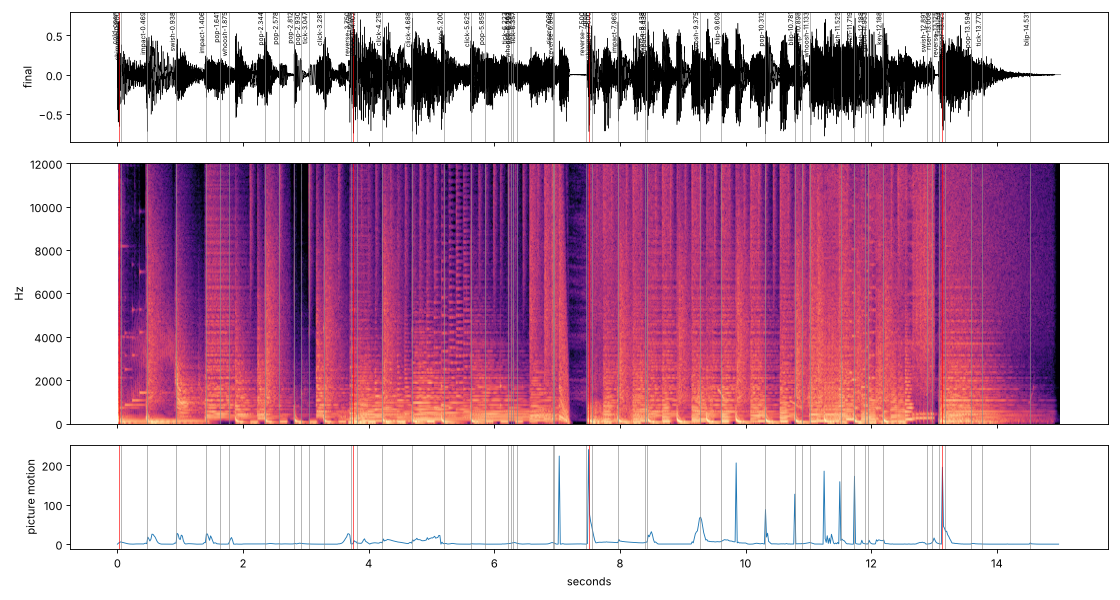
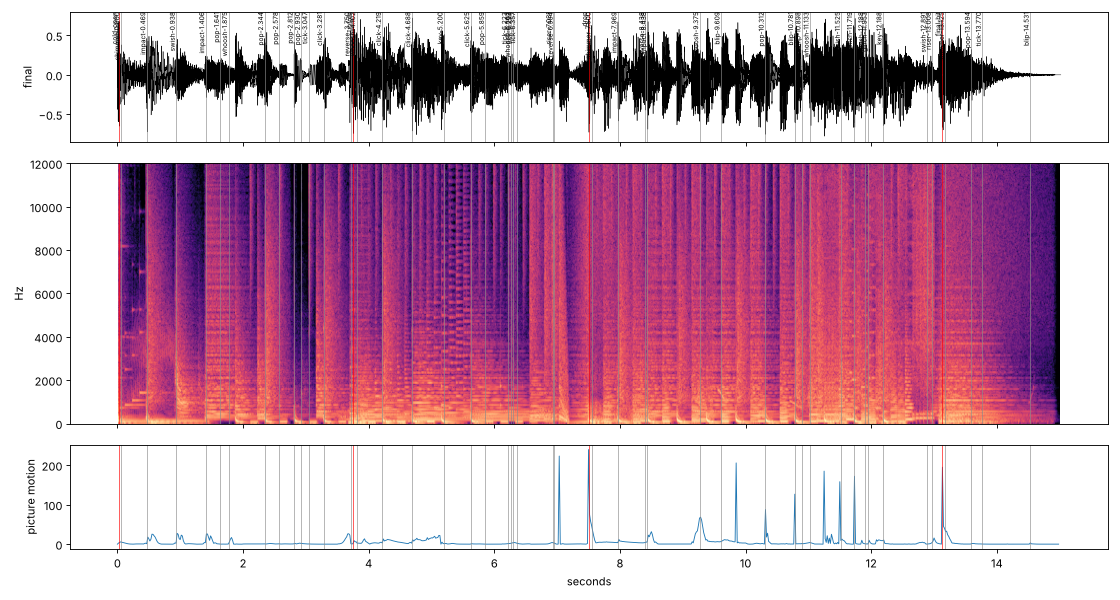
Sound trial round 4: fill the gap before the drop
The trial's music bed was rendered with `synth.py --mute sfx`, which also
mutes the swells the synth lets through the score's dead stops, so the
0.25 s before the drop went almost silent. A recorded swell can't fill it:
the mixer solves each support's gain against the bed, so in a silent bed it
comes out at -41 dB.

synth.py gets a `hits` mute: the sfx bus off, the swells that pass a
silence kept. The default render is byte-identical. The converter drops
the two recorded reverses that landed in the dead stops. 7.20-7.47 s now
averages -24.2 dB, against -25.3 dB in the synth version and -51.5 dB
before. QA: same 11 FAILs, loudness -14.1 LUFS, heroes on their frames.

Claude-Session: https://claude.ai/code/session_01Koa4bvsMWd58fJM3nGk25F

diff --git a/showreel/sound-trial/convert.py b/showreel/sound-trial/convert.py
@@ -49,6 +49,10 @@ PRIORITY = ["impact", "pop", "blip", "click", "glitch", "tick", "type", "swish"]
 # What the picture does on each sound, from the scene's own comment on the R.sfx call.
 LAND = {2.34375, 2.578125, 2.8125, 2.9296875, 5.15625, 11.1328125, 12.1875, 13.59375}
 CUT = {9.375, 11.25, 11.484375}
+# Round 4: the score's dead stops before the drop (7.27-7.50 s) and the final hit (13.01-13.13 s). The music bed
+# is rendered with `synth.py --mute hits`, which keeps the synth's own swells through them. A recorded swell
+# ending there was solved against a silent bed (-41 and -46 dB, inaudible), so the score's swell plays instead.
+PASSED = {7.5, 13.125}
 
 
 def near(t, times):
@@ -85,6 +89,8 @@ for ev in src["sounds"]:
         cues.append(c); continue
     if typ in ("whoosh", "reverse", "riser"):  # end-anchored in the picture: they land at t + dur
         end = t + ev["dur"]
+        if typ != "whoosh" and near(end, PASSED) is not None:
+            continue
         snd = by_len(WHOOSH, ev["dur"]) if typ == "whoosh" else by_len(REVERSE, ev["dur"]) if typ == "reverse" \
             else SOUND["riser"][0]
         # fix after round 3: OVERRIDE is keyed by time only, so it is for the riser here; a whoosh or reverse that

diff --git a/showreel/audio/synth.py b/showreel/audio/synth.py
@@ -267,7 +267,8 @@ MIX = {
 RETURNS = dict(room=-6.0, hall=-4.0, delay=-6.0, fxverb=-7.0)   # return levels, dB
 RETURN_DUCK = 3.0               # sidechain depth (dB) on the hall/delay returns: the space pumps too
 DUCK_SHAPE = 1.8                # ducking = depth * key_envelope ** DUCK_SHAPE (>1: snappier recovery)
-MUTE = []                       # parts or buses to silence, e.g. ['saw', 'sfx']  (buses: drums tonal sfx)
+MUTE = []                       # parts or buses to silence, e.g. ['saw', 'sfx']  (buses: drums tonal sfx;
+                                # 'hits' is the sfx bus without the swells that pass a silence)
 SOLO = []                       # if not empty only these parts / buses play
 
 # Picture-driven sound design (R.sfx vocabulary + internal sounds). gain dB, verb = send to the FX reverb,
@@ -2389,6 +2390,8 @@ def render(cues_path, mute=(), solo=()):
         sfx[:] = 0.0
         sfx_pass[:] = 0.0
         counts = {}
+    elif 'hits' in mute:                         # the score plus the swells that pass a silence (sound-trial bed)
+        sfx[:] = 0.0
     music += kick_bus
     # music dips under big hits (trigger -> 5 ms attack, 280 ms release, in dB)
     if duck_trig.any():

diff --git a/showreel/sound-trial/README.md b/showreel/sound-trial/README.md
@@ -12,10 +12,10 @@ The trial mp4 (13.9 MB) is delivered separately and isn't committed. Rebuild it 
 | file | what |
 |---|---|
 | `convert.py` | turns the picture's own cue export (`audio/cues.json`, from `tools/cues.mjs`) into a sound-layer cue sheet. Each synth type maps to a sound picked with `sfx.py browse`, and the comments give the reason for each round's change |
-| `cues.json` | the cue sheet that was mixed: 52 cues, 4 of them heroes |
+| `cues.json` | the cue sheet that was mixed: 50 cues, 4 of them heroes |
 | `mix-report.json` | the mixer's report: gain, alignment and band for every event, plus master loudness |
 | `qa-report.json`, `qa.png` | `qa.py`'s results and its picture (waveform, spectrogram and motion, with every cue marked) |
-| `CREDITS.md` | the 29 recordings the mix plays |
+| `CREDITS.md` | the 28 recordings the mix plays |
 | `LISTEN.md` | five timecodes to check by ear, and every sound left out |
 
 ## Rebuild
@@ -24,7 +24,7 @@ The trial mp4 (13.9 MB) is delivered separately and isn't committed. Rebuild it 
 git clone https://github.com/Bodila51/opus-sound-layer sound-layer   # outside this repo
 mkdir -p trial/audio trial/out && cd trial
 uv run -q ../sound-layer/scripts/sfx.py kit                           # audio/kit: 1,139 CC0 sounds
-(cd <repo>/showreel && python3 audio/synth.py --mute sfx --out <trial>/audio/music.wav)   # score only
+(cd <repo>/showreel && python3 audio/synth.py --mute hits --out <trial>/audio/music.wav)  # score + its swells
 python3 <repo>/showreel/sound-trial/convert.py <repo>/showreel/audio/cues.json audio/cues.json
 ffmpeg -y -i <repo>/showreel/dist/showreel.mp4 -map 0:v -c:v copy video.mp4
 uv run -q ../sound-layer/scripts/mix.py audio/cues.json
@@ -32,12 +32,15 @@ ffmpeg -y -i video.mp4 -i audio/mix.wav -map 0:v -map 1:a -c:v copy -c:a aac -b:
 uv run -q ../sound-layer/scripts/qa.py out/final.mp4
 ```
 
-`--mute sfx` keeps the synth's music-bus edits (the glitch and tape-stop), along with its duck under each hit.
+`--mute hits` mutes the synth's sound effects but keeps three things: its music-bus edits (the glitch and
+tape-stop), its duck under each hit, and the swells it lets through the score's two dead stops (before the drop at
+7.27–7.50 s and before the final hit at 13.01–13.13 s). `--mute sfx` mutes those swells too, which is what
+left the gap before the drop in rounds 1–3.
 
 ## What the checks show
 
 The trial followed the sound-layer prompt: fix FAILs by changing cues or sounds, for at most 2 rounds, without
-touching the scripts or the thresholds.
+touching the scripts or the thresholds. Round 4 came after the A/B, by request, to fill the gap before the drop.
 
 | run | cues | FAIL | what changed |
 |---|---|---|---|
@@ -45,11 +48,12 @@ touching the scripts or the thresholds.
 | round 2 | 75 | 33 | faster-rising hero layers, brighter whooshes, one key per typing burst, louder overrides for buried sounds, clusters thinned |
 | round 3 | 51 | 11 | sounds measured as buried in round 2 dropped, the cold open aligned to frame 0, a new boom under the final hit |
 | fix | 52 | 11 | a bug, not a tuning round: the per-time sound overrides also caught the swells ending at those times, so reverse-7.500 played a shimmer and the whooshes at 11.13 and 12.19 played a cork pop. Each swell now plays its own family, and reverse-8.438 (dropped after being measured on the wrong file) is back |
+| round 4 | 50 | 11 | the gap before the drop filled: the bed now keeps the synth's own swells through the score's dead stops (`--mute hits`), and the two recorded reverses that landed there (reverse-7.500 and reverse-13.125, solved at −41 and −46 dB against a silent bed) are dropped. 7.20–7.47 s now averages −24.2 dB, against −25.3 dB in the synth version and −51.5 dB before |
 
 Final run, passing:
 - offset 0 ms
 - −14.10 LUFS
-- true peak −1.94 dBTP
+- true peak −1.87 dBTP
 - music level steady, no dips
 - no silences flagged
 - the unfold, drop and final hit 0 frames from their cues; the cold open starts on frame 0 (start-aligned, so QA has no sync row for it)
@@ -70,6 +74,9 @@ The 11 FAILs left:
 The 5 warnings: the landing pops at 2.344, 2.578, 2.812, 2.930 and 13.594 sit where the picture's whole-frame
 motion doesn't stop. The landing dot is too small to register.
 
-One difference the QA doesn't flag: about 0.25 s before the drop is nearly silent in the trial, where the synth
-builds. The score is silent there, and the mixer solves each sound's gain against the score. [LISTEN.md](LISTEN.md),
-row 3, has the numbers.
+Round 4 changed no FAIL. The drop now stands out by 5.0 dB (it was 6.7 dB), because the swell runs right up to it.
+That's still a pass.
+
+Why rounds 1–3 had the gap: the mixer gives each support sound the smallest gain that lifts it over the bed, and it
+floors a silent bed at −60 dB. A sound placed inside a dead stop is therefore nearly silent. The swell has to come
+from the bed.

diff --git a/showreel/sound-trial/LISTEN.md b/showreel/sound-trial/LISTEN.md
@@ -8,9 +8,9 @@ answer the questions below; your ears can.
 |---|---|---|---|
 | 1 | 0.00 | cold open: thud + bass hit on frame 1 | Does it hit on the first frame, or does it feel late? QA: starts on frame 0 (start-aligned, so no sync row), stands out 10.1 dB, body 3.3 dB. |
 | 2 | 3.75 | the box unfolds: dun + rugged sub | Does the sub carry the unfold as the synth's did? QA: sync 0, body 3.9 dB. |
-| 3 | 7.20–7.60 | **the drop** | **The biggest difference.** The synth builds into the drop; the trial goes almost silent for about 0.25 s before it (mean −51.5 dB, against −25.3 dB in the synth). The music bed is silent there by design, and the mixer sets each sound against the bed, so the reverse swell meant to fill it comes out at −41 dB. Is the hole a good tension beat, or does the build go missing? The drop itself: sync 0, stands out 6.7 dB, body 3.3 dB. |
+| 3 | 7.20–7.60 | **the drop** | The run-up is back. Round 4 keeps the synth's own swell through the score's dead stop, because a recorded one placed there is mixed nearly silent. 7.20–7.47 s averages −24.2 dB, against −25.3 dB in the synth version and −51.5 dB in rounds 1–3. Does the recorded drop land on it as hard as the synth's does? QA: sync 0, stands out 5.0 dB, body 3.3 dB. |
 | 4 | 9.40–12.30 | the RANGE passage: glitches, blips, ticks, whooshes | Busy or clean? QA measures the two whooshes (11.13, 12.19), a blip (9.61), a glitch (11.95) and the key (12.19) as under the score, and blip-10.898 as 2.85 frames late. 13 sounds from this stretch were dropped as inaudible (list below). |
-| 5 | 13.125 | final hit: braam + deep hit | Does it land as hard as the synth? QA: sync 0, but body only 2.1 dB over the score (needs 3), the one hero check that fails. |
+| 5 | 13.125 | final hit: braam + deep hit | Does it land as hard as the synth? QA: sync 0, but body only 2.1 dB over the score (needs 3), the one hero check that fails. The synth's swell through the short dead stop before it (13.01–13.13 s) is back too. |
 
 ## Sounds left out
 

diff --git a/showreel/sound-trial/CREDITS.md b/showreel/sound-trial/CREDITS.md
@@ -1,4 +1,4 @@
-# Sound credits (29 recordings)
+# Sound credits (28 recordings)
 
 These are the recordings the trial mix plays. All are CC0 (public domain) and come from the opus-sound-layer kit
 (https://github.com/Bodila51/opus-sound-layer). CC0 doesn't require credit, but it's given here. The kit's own
@@ -19,7 +19,6 @@ CREDITS.md lists all 1,139 sounds.
 - key/fs-348239-mech-keyboard-01-wav-1: "MECH-KEYBOARD-01.wav" by newagesoup, CC0, https://freesound.org/people/newagesoup/sounds/348239
 - pop/fs-244652-pop-4-1: "Pop 4" by greenvwbeetle, CC0, https://freesound.org/people/greenvwbeetle/sounds/244652
 - pop/fs-328117-pop-8-1: "Pop 8" by greenvwbeetle, CC0, https://freesound.org/people/greenvwbeetle/sounds/328117
-- reverse/fs-503803-reverse-fx-13-wav-1: "reverse fx 13.wav" by neezen., CC0, https://freesound.org/people/neezen./sounds/503803
 - reverse/fs-503805-reverse-fx-7-wav-1: "reverse fx 7.wav" by neezen., CC0, https://freesound.org/people/neezen./sounds/503805
 - riser/fs-531729-energy-riser-3-1: "Energy Riser 3" by magnuswaker, CC0, https://freesound.org/people/magnuswaker/sounds/531729
 - riser/fs-608217-inhale-with-glass-wav-1: "Inhale with glass.wav" by guitargeorge-2, CC0, https://freesound.org/people/guitargeorge-2/sounds/608217
